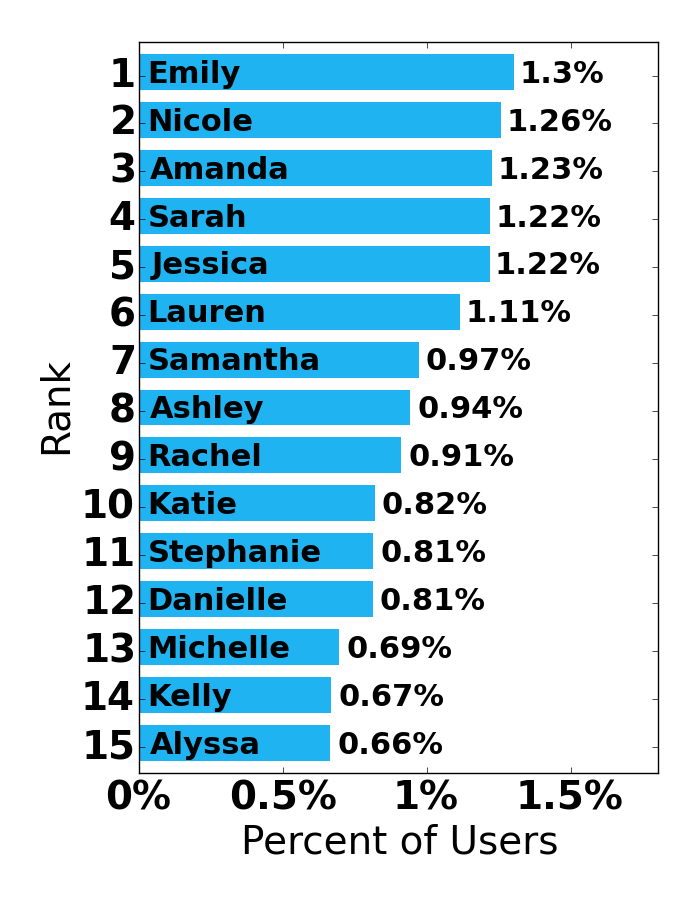
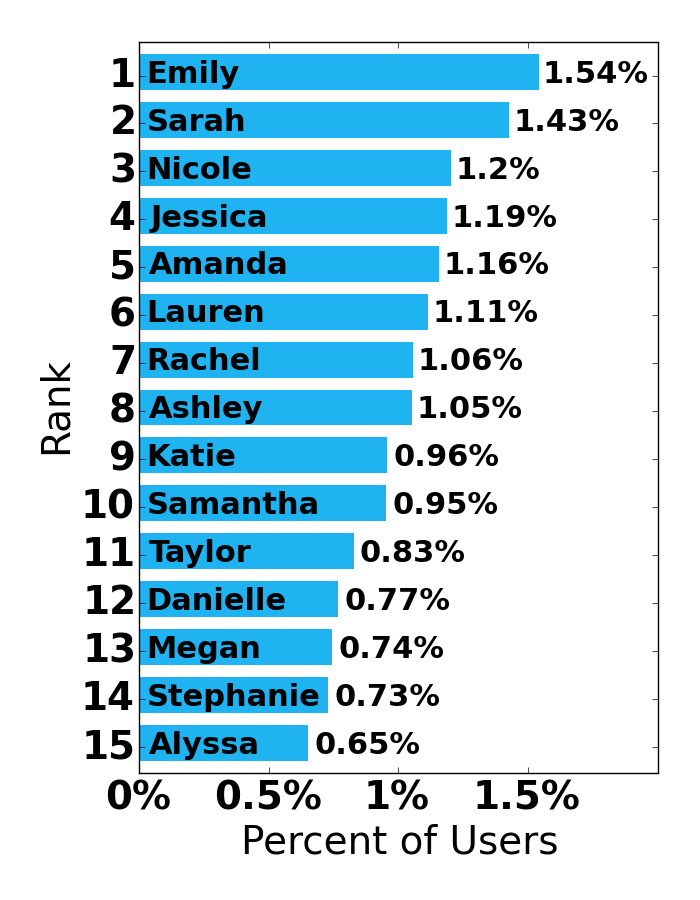
Update figures. Add content

diff --git a/content/posts/meetemily/emily.md b/content/posts/meetemily/emily.md
@@ -27,7 +27,7 @@ and (only the primary) profile pictures.
 ## What's her name
 
 After a quick analysis, the most common name was Emily, followed closely by 
-Nicole, Amanda, Sarah, and Jessica.
+Sarah.
 
 ![Names]({attach}names.png)
 
@@ -93,11 +93,23 @@ used as adjectives unrelated to genre as well. Overall, we can get some deeper
 interpretation of popular genres from this, but it shouldn't be taken too seriously.
 
 ### Beverages
+
+Coffee was the obvious winner over tea, but surprisingly, beer came out just
+above wine, though still not as popular as coffee.
 ![Beverages]({attach}beverages.png)
 
+As for liquor, whiskey trumped all. Infact, the others are mentioned so infrequently
+that I hesitate to call them statistically meaningful.
 
 ![Liquor]({attach}liquor.png)
 
 ### Sports 
+Hockey seems like it must be another demographic issue, but it could also be the 
+fact that field hockey is also included in this statistic. 
 ![Sports]({attach}sports.png)
+
+Dogs are the clear favorite amongst users, which is not that surprising. If I 
+took the time to train a classifier to identify dogs, I bet I could find a dog 
+in nearly half of all profiles.
+
 ![Pets]({attach}pets.png)
